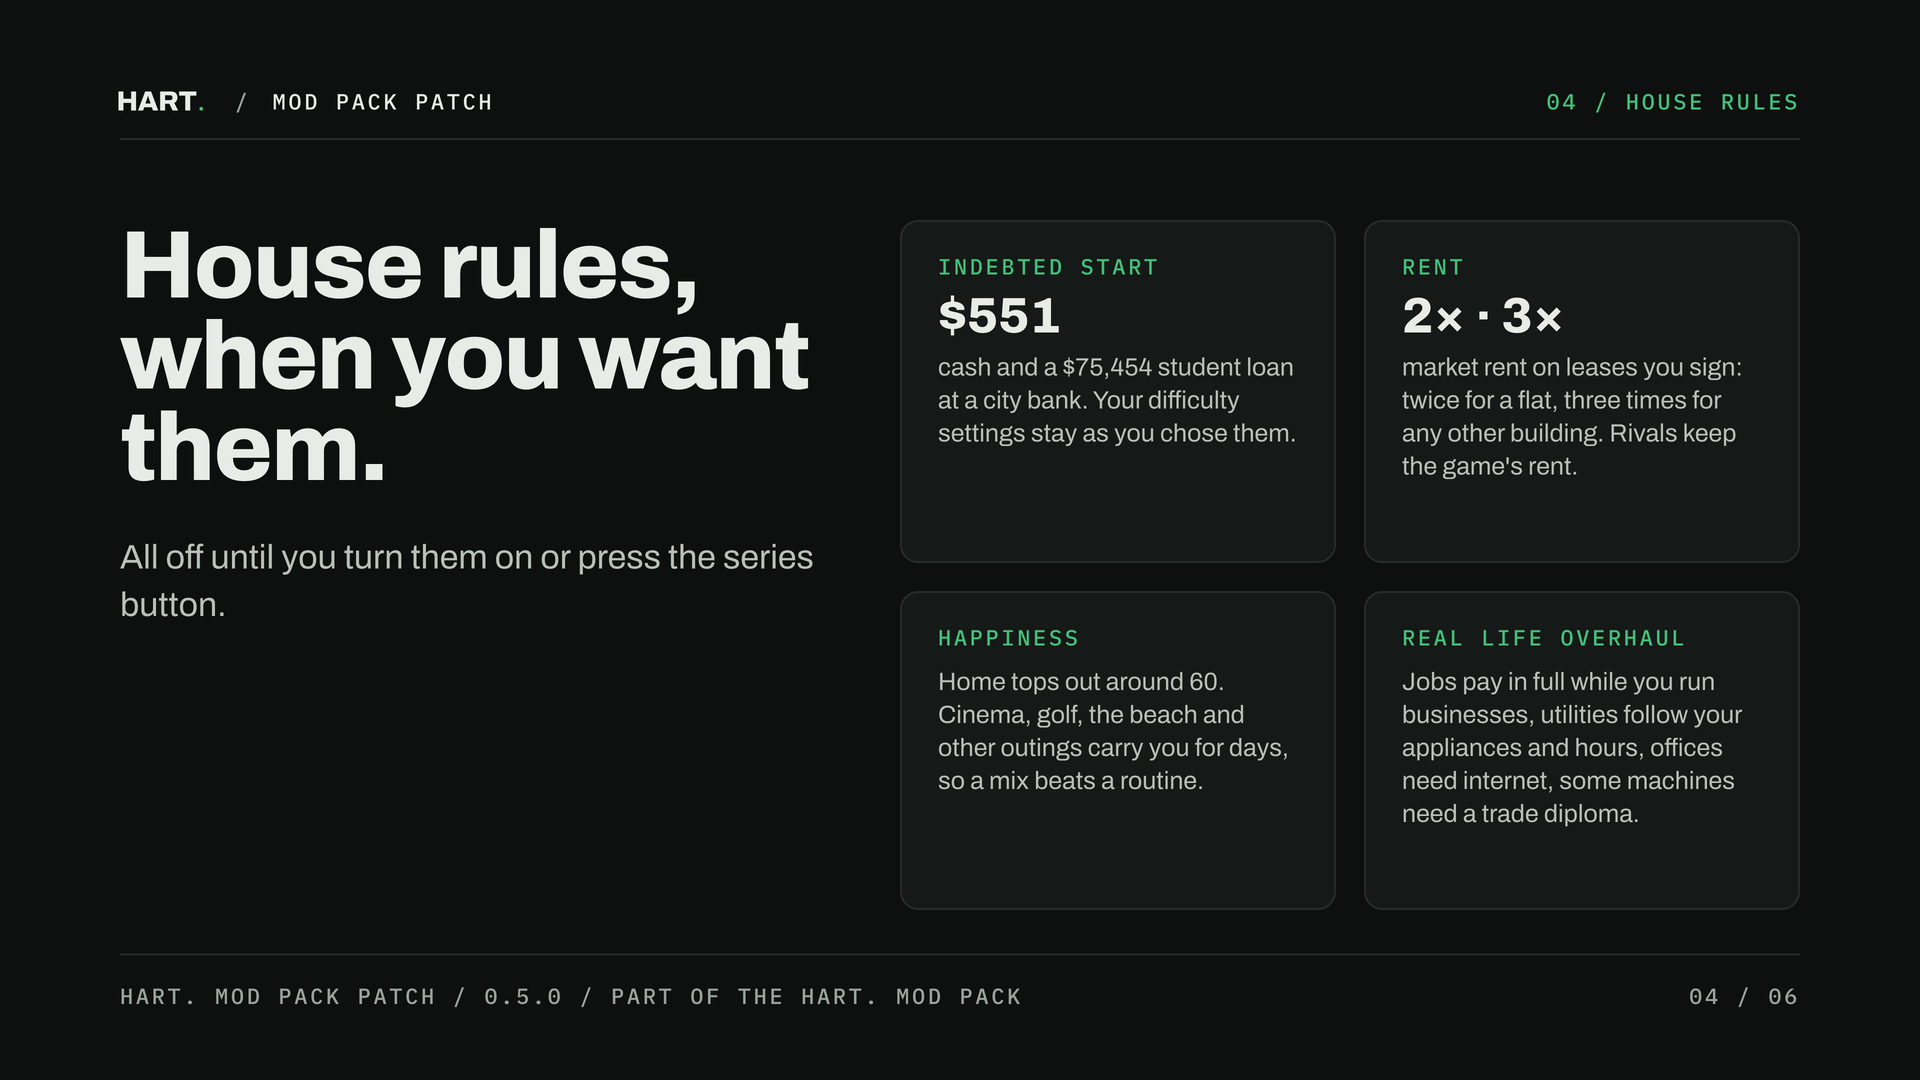
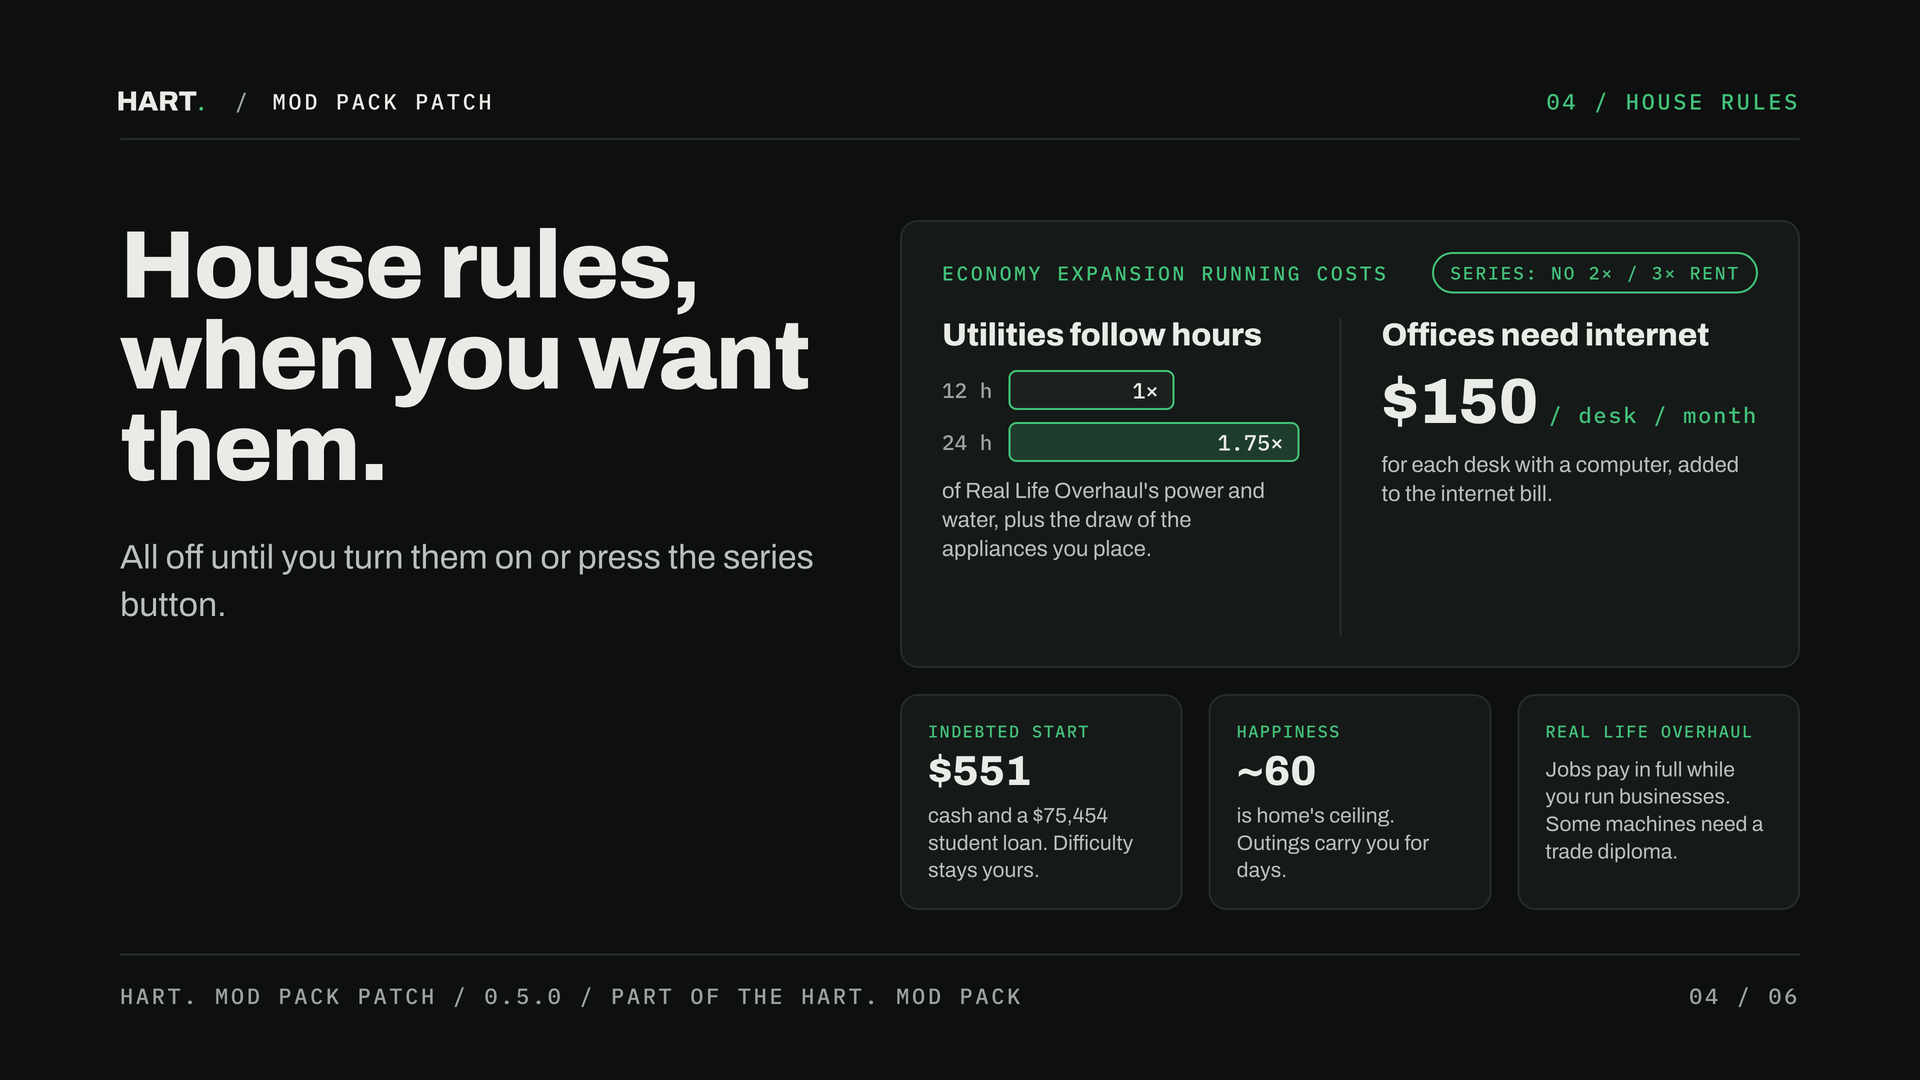
Redraw house rules card with Economy Expansion running costs
The series preset no longer raises rent. The card now shows utilities
following opening hours (12 h = 1x RLO, 24 h = 1.75x) plus appliance
draw, and offices needing internet with $150 per computer desk a month.

Changed region(s): [[0.4688, 0.2444, 0.9062, 0.5194], [0.4688, 0.5806, 0.9062, 0.825]]

diff --git a/workshop/art/cards/04-house-rules.html b/workshop/art/cards/04-house-rules.html
@@ -1,10 +1,40 @@
-<!doctype html><html lang="en"><head><meta charset="utf-8"><link rel="stylesheet" href="../hart.css"><link rel="stylesheet" href="../theme.css"></head><body><div class="card"><div class="bar mono"><div class="who"><img src="../src/hart-wordmark.svg" alt="HART." style="margin-left:-11px"><span class="dim">/</span><span>Mod Pack Patch</span></div><div class="sec">04 / House rules</div></div>
+<!doctype html><html lang="en"><head><meta charset="utf-8"><link rel="stylesheet" href="../hart.css"><link rel="stylesheet" href="../theme.css">
+<style>
+.stage { display: grid; grid-template-columns: repeat(3, 1fr); grid-template-rows: 1fr auto; gap: 26px; }
+.rc { grid-column: 1 / -1; padding: 30px 40px; display: flex; flex-direction: column; }
+.rc .head { display: flex; justify-content: space-between; align-items: center; }
+.rc .tag { font-size: 18px; padding: 7px 16px; letter-spacing: 0.1em; }
+.rc .halves { flex: 1; display: grid; grid-template-columns: 1.1fr 1fr; gap: 40px; margin-top: 24px; }
+.rc .halves > div + div { border-left: 2px solid var(--rule); padding-left: 40px; }
+.rc h2 { font-weight: 800; font-size: 32px; white-space: nowrap; letter-spacing: -0.01em; }
+.rc p { font-size: 22px; line-height: 1.32; color: var(--soft); }
+.hours { margin: 18px 0 14px; display: grid; grid-template-columns: auto 1fr; gap: 12px 16px; align-items: center; }
+.hours .h { font-family: Plex, monospace; font-size: 21px; color: var(--dim); }
+.hours .b { height: 40px; border-radius: 8px; background: var(--raised); border: 2px solid var(--accent); display: flex; align-items: center; justify-content: flex-end; padding-right: 14px; font-family: Plex, monospace; font-size: 22px; color: var(--ink); }
+.hours .b.full { background: rgba(67, 192, 122, 0.22); }
+.big { font-weight: 800; font-size: 64px; line-height: 1; margin-top: 18px; white-space: nowrap; }
+.big small { font-family: Plex, monospace; font-weight: 500; font-size: 22px; color: var(--accent); letter-spacing: 0.08em; margin-left: 10px; }
+.sm { padding: 24px 26px; }
+.sm .mono { font-size: 17px; letter-spacing: 0.08em; white-space: nowrap; }
+.sm .n { font-weight: 800; font-size: 42px; line-height: 1.1; margin-top: 6px; }
+.sm p { font-size: 21px; line-height: 1.3; color: var(--soft); margin-top: 8px; }
+</style></head><body><div class="card"><div class="bar mono"><div class="who"><img src="../src/hart-wordmark.svg" alt="HART." style="margin-left:-11px"><span class="dim">/</span><span>Mod Pack Patch</span></div><div class="sec">04 / House rules</div></div>
 <div class="copy"><h1>House rules, when you want them.</h1>
 <p class="lede">All off until you turn them on or press the series button.</p></div>
-<div class="stage" style="display:grid; grid-template-columns:1fr 1fr; gap:28px">
-<div class="panel" style="padding:30px 36px"><div class="mono accent" style="font-size:22px">Indebted start</div><div style="font-weight:800; font-size:50px; margin-top:8px">$551</div><div style="font-size:25px; line-height:1.32; color:var(--soft); margin-top:8px">cash and a $75,454 student loan at a city bank. Your difficulty settings stay as you chose them.</div></div>
-<div class="panel" style="padding:30px 36px"><div class="mono accent" style="font-size:22px">Economy Expansion</div><div style="font-weight:800; font-size:50px; margin-top:8px">Running costs</div><div style="font-size:25px; line-height:1.32; color:var(--soft); margin-top:8px">Equipment and opening hours shape utility bills. Offices need internet and pay $150 per computer each game month. The series button turns the flat rent increase off.</div></div>
-<div class="panel" style="padding:30px 36px"><div class="mono accent" style="font-size:22px">Happiness</div><div style="font-size:25px; line-height:1.32; color:var(--soft); margin-top:14px">Home tops out around 60. Cinema, golf, the beach and other outings carry you for days, so a mix beats a routine.</div></div>
-<div class="panel" style="padding:30px 36px"><div class="mono accent" style="font-size:22px">Real Life Overhaul</div><div style="font-size:25px; line-height:1.32; color:var(--soft); margin-top:14px">Jobs pay in full while you run businesses, utilities follow your appliances and hours, offices need internet, some machines need a trade diploma.</div></div>
+<div class="stage">
+<div class="panel rc">
+ <div class="head"><div class="mono accent" style="font-size:20px; white-space:nowrap">Economy Expansion running costs</div><div class="tag mono" style="white-space:nowrap">Series: no 2× / 3× rent</div></div>
+ <div class="halves">
+  <div><h2>Utilities follow hours</h2>
+   <div class="hours"><span class="h">12 h</span><div class="b" style="width:57.1%">1×</div><span class="h">24 h</span><div class="b full" style="width:100%">1.75×</div></div>
+   <p>of Real Life Overhaul's power and water, plus the draw of the appliances you place.</p></div>
+  <div><h2>Offices need internet</h2>
+   <div class="big">$150<small>/ desk / month</small></div>
+   <p style="margin-top:16px">for each desk with a computer, added to the internet bill.</p></div>
+ </div>
+</div>
+<div class="panel sm"><div class="mono accent">Indebted start</div><div class="n">$551</div><p>cash and a $75,454 student loan. Difficulty stays yours.</p></div>
+<div class="panel sm"><div class="mono accent">Happiness</div><div class="n">~60</div><p>is home's ceiling. Outings carry you for days.</p></div>
+<div class="panel sm"><div class="mono accent">Real Life Overhaul</div><p style="margin-top:14px">Jobs pay in full while you run businesses. Some machines need a trade diploma.</p></div>
 </div>
 <div class="foot mono"><span>HART. Mod Pack Patch / 0.5.0 / Part of the HART. Mod Pack</span><span>04 / 06</span></div></div></body></html>
